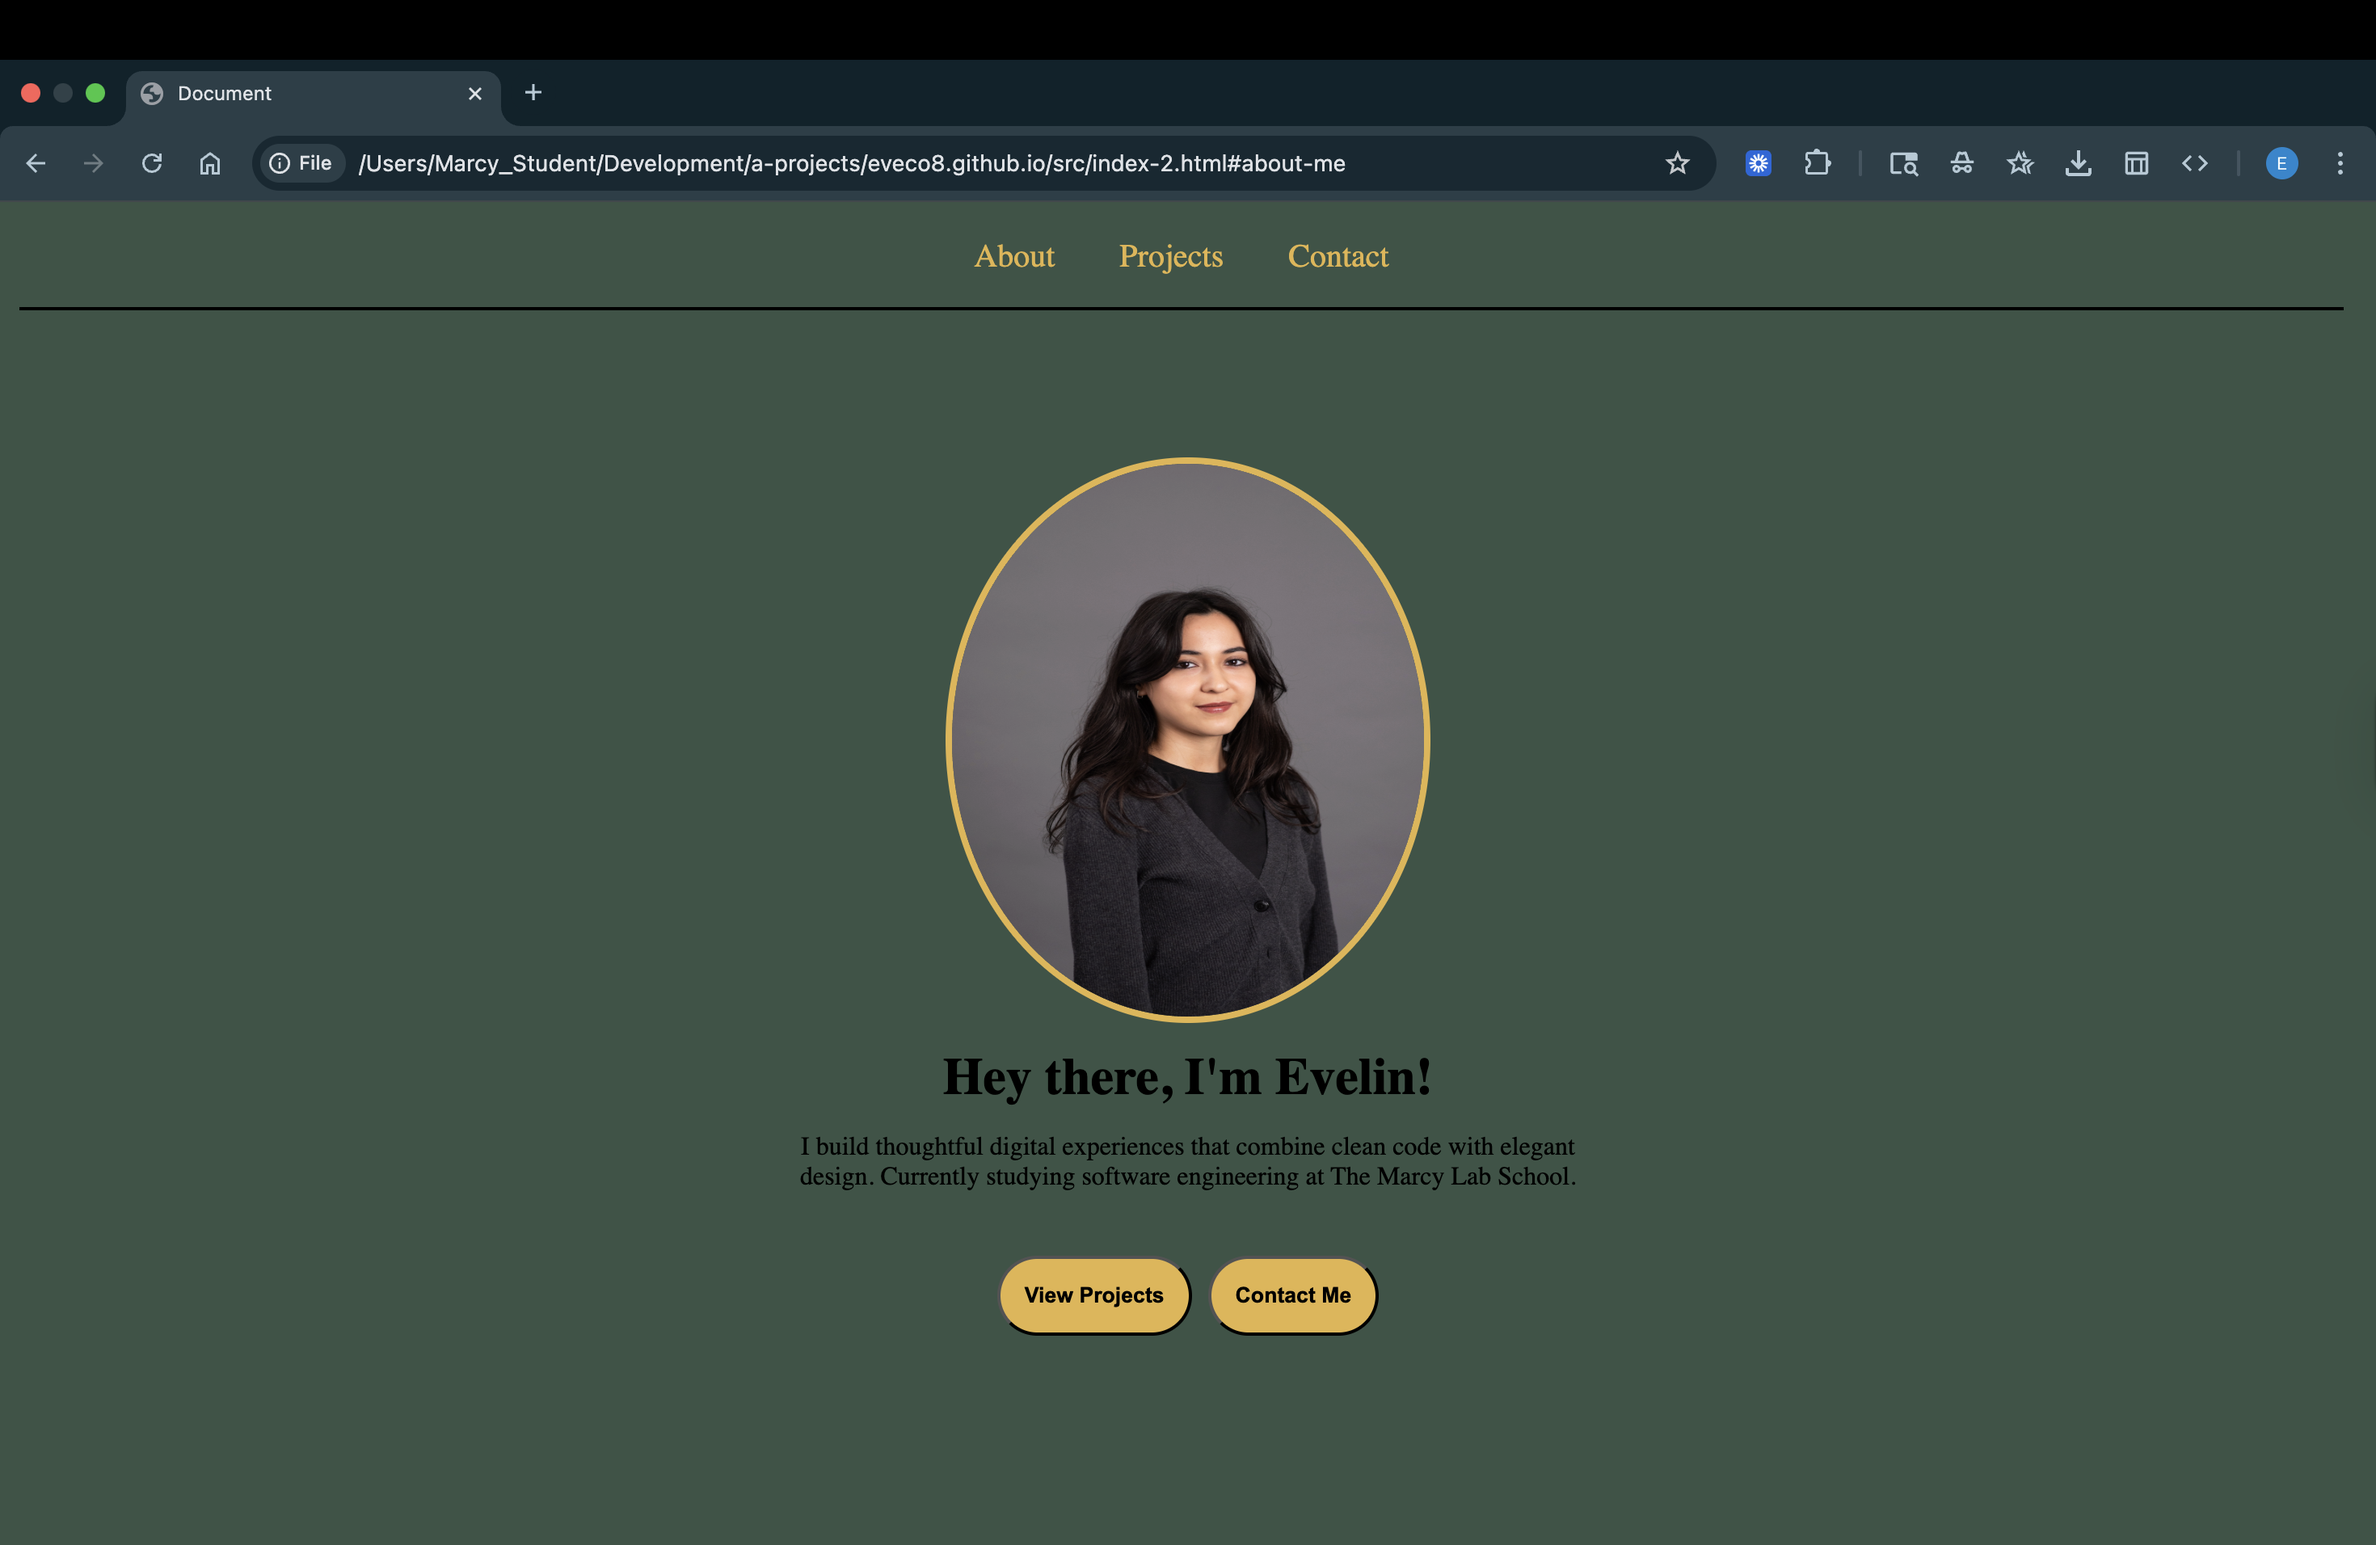
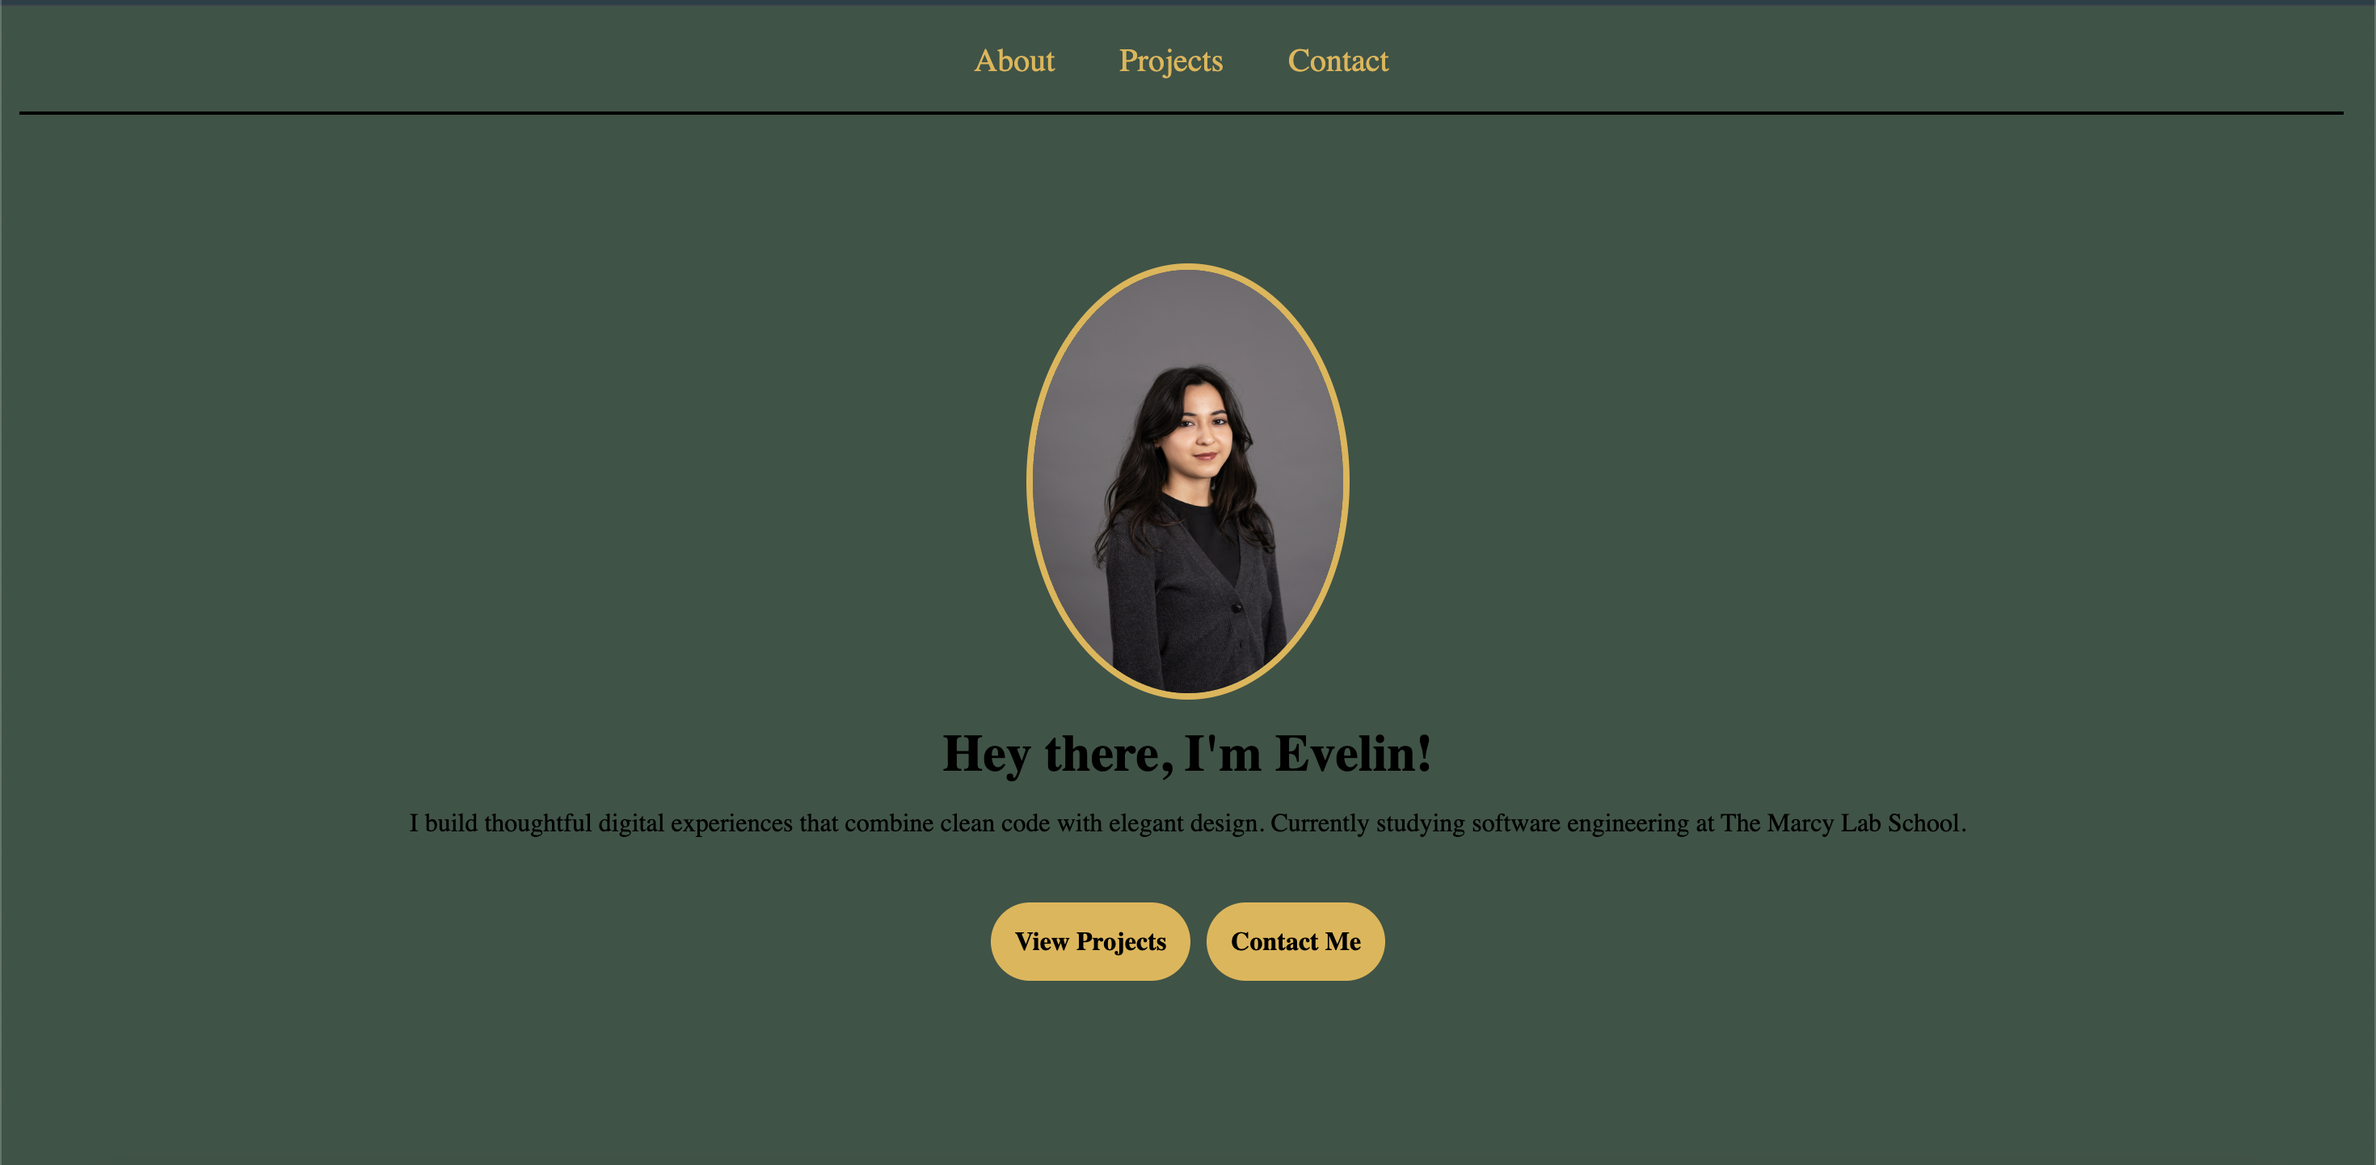
addded mewmix project

diff --git a/index.html b/index.html
@@ -52,7 +52,7 @@
             <div class="me-section">
                 <div class="about-me-paragraph">
                     <h2>About me</h2>
-                    <p>I'm a software engineering fellow passionate about creating websites that are both beautiful and functional. I believe good design should be invisible—it just works. Before tech, I studied English literature, which taught me the power of storytelling. Now I tell stories through code, crafting experiences that connect with users on a human level. Outside of coding, I enjoy reading science fiction, exploring coffee shops, and practicing photography. I'm a software engineering fellow passionate about creating websites that are both beautiful and functional. I believe good design should be invisible—it just works. Before tech, I studied English literature, which taught me the power of storytelling. Now I tell stories through code, crafting experiences that connect with users on a human level. Outside of coding, I enjoy reading science fiction, exploring coffee shops, and practicing photography.</p>
+                    <p>I'm a software engineering fellow passionate about creating websites that are both beautiful and functional. I believe good design should be invisible—it just works. Before tech, I studied English literature, which taught me the power of storytelling. Now I tell stories through code, crafting experiences that connect with users on a human level. Outside of coding, I enjoy reading science fiction, exploring coffee shops, and practicing photography. I'm a software engineering fellow passionate about creating websites that are both beautiful and functional. I believe good design should be invisible—it just works. Before tech, I studied English literature, which taught me the power of storytelling. Now I tell stories through code, crafting experiences that connect with users on a human level. Outside of coding, I enjoy reading science fiction, exploring coffee shops, and practicing photography. *change*</p>
                 </div>
                     
                     <div class="skills-container">
@@ -64,59 +64,69 @@
                             <span class="skill"><strong>Node.js</strong></span>
                         </div>
                     </div>
-            </div>
-        </section>
-
-        
-        <section id="projects" class="section-card">
-            <h2>My Projects</h2>
-
+                </div>
+            </section>
+            
+            
+            <section id="projects" class="section-card">
+                <h2>My Projects</h2>
+                
+                <div class="proj">
+                     <img class="proj-img" src="src/img/mewmix.png" alt="evelin's-mewmix-project">
+                     <div class="proj-container"> 
+                        <div>
+                            <p class="proj-description">
+                                Mewmix is an interactive web app where users collect and explore digital cat cards featuring funny images, GIFs, and fun facts, for entertaining learning.
+                            </p>
+                        </div>
+                        <div class="proj-skill-container">
+                            <span class="proj-skill"><strong>HTML</strong></span>
+                            <span class="proj-skill"><strong>CSS</strong></span>
+                            <span class="proj-skill"><strong>JavaScript</strong></span>
+                            <span class="proj-skill"><strong>Responsive</strong></span>
+                        </div>
+                        <div class="github-link">
+                            <a href="https://github.com/Joshua-Evelin-mls/mod-4-project"><strong>GitHub</strong></a>
+                            <a href="https://joshua-evelin-mls.github.io/mod-4-project/"><strong>Live Site</strong></a>
+                        </div>
+                    </div>
+                </div>
+                        
                 <div class="proj">
                     <img class="proj-img" src="src/img/cli.png" alt="cli-project">
-                    <div class="proj-skill-container">
-                        <span class="proj-skill"><strong>JavaScript</strong></span>
-                        <span class="proj-skill"><strong>Node.js</strong></span>
-                    </div>
-                    <div class="github-link">
-                        <a href="https://github.com/eveco8/rock-paper-scissors"><strong>GitHub</strong></a>
+                    <div class="proj-container">
+                        <div>
+                            <p class="proj-description">
+                                Think you can beat the computer? A fun CLI game of Rock Paper Scissors playable directly in the terminal.
+                            </p>
+                        </div>
+                        <div class="proj-skill-container">
+                            <span class="proj-skill"><strong>JavaScript</strong></span>
+                            <span class="proj-skill"><strong>Node.js</strong></span>
+                        </div>
+                        <div class="github-link">
+                            <a href="https://github.com/eveco8/rock-paper-scissors"><strong>GitHub</strong></a>
+                        </div>
                     </div>
                 </div>
 
                 <div class="proj">
                      <img class="proj-img" src="src/img/portfolio.png" alt="evelin's-portfolio-project">
-                     <div class="proj-skill-container">
-                        <span class="proj-skill"><strong>HTML</strong></span>
-                        <span class="proj-skill"><strong>CSS</strong></span>
-                        <span class="proj-skill"><strong>Responsive</strong></span>
-                     </div>
-                     <div class="github-link">
-                        <a href="https://github.com/eveco8/eveco8.github.io"><strong>GitHub</strong></a>
-                     </div>
-                </div>
-
-                <div class="proj">
-                    <img class="proj-img" src="src/img/recipe.png" alt="evelin's-recipe-card-project">
-                    <div class="proj-skill-container">
-                        <span class="proj-skill"><strong>HTML</strong></span>
-                        <span class="proj-skill"><strong>CSS</strong></span>
-                        <span class="proj-skill"><strong>Responsive</strong></span>
+                     <div class="proj-container">
+                        <div>
+                            <p class="proj-description">
+                                My personal portfolio showcasing my projects, skills, and journey as a software engineering fellow.
+                            </p>
+                        </div>
+                         <div class="proj-skill-container">
+                             <span class="proj-skill"><strong>HTML</strong></span>
+                             <span class="proj-skill"><strong>CSS</strong></span>
+                             <span class="proj-skill"><strong>Responsive</strong></span>
+                        </div>
+                        <div class="github-link">
+                                <a href="https://github.com/eveco8/eveco8.github.io"><strong>GitHub</strong></a>
+                        </div>
                     </div>
-                    <div class="github-link">
-                        <a href="https://github.com/The-Marcy-Lab-School-Assignments/swe-3-1-recipe-card-eveco8"><strong>GitHub</strong></a>    
-                    </div>
-                </div>
-
-                <div class="proj">
-                     <img class="proj-img" src="src/img/mewmix.png" alt="evelin's-mewmix-project">
-                     <div class="proj-skill-container">
-                        <span class="proj-skill"><strong>HTML</strong></span>
-                        <span class="proj-skill"><strong>CSS</strong></span>
-                        <span class="proj-skill"><strong>JavaScript</strong></span>
-                        <span class="proj-skill"><strong>Responsive</strong></span>
-                     </div>
-                     <div class="github-link">
-                        <a href="https://github.com/Joshua-Evelin-mls/mod-4-project"><strong>GitHub</strong></a>
-                     </div>
                 </div>
         </section>
 

diff --git a/src/style.css b/src/style.css
@@ -116,7 +116,7 @@ h2 {
   background-color: #e3b449;
   border-radius: 40px;
   padding: 15px;
-    display: inline-block;
+  display: inline-block;
   text-decoration: none;
   color: black;
   text-align: center;
@@ -186,6 +186,7 @@ h2 {
 }
 
 .proj {
+  display: flex;
   width: 80%;        
   padding: 20px;
   border-bottom: 2px solid black;
@@ -200,7 +201,7 @@ h2 {
 }
 
 .proj-img {
-  width: 100%;
+  width: 50%;
   border-radius: 10px;
   border: 2px solid black;
 }
@@ -209,11 +210,11 @@ h2 {
   display: flex;
   justify-content: center;
   gap: 10px;
-  padding-top: 10px;
+  padding-top: 20px;
 }
 
 .proj-skill {
-  font-size: 7px;
+  font-size: 11px;
   /* width: 50px; */
   text-align: center;
   padding: 4px;
@@ -227,6 +228,7 @@ h2 {
   display: flex;
   justify-content: center;
   margin-top: 15px;
+  gap: 20px;
 }
 
 .github-link a {
@@ -242,7 +244,13 @@ h2 {
   text-decoration: underline;
 }
 
-
+.proj-container {
+  display: flex;
+  flex-direction: column;
+  justify-content: center;
+  padding: 35px;
+  text-align: center;
+}
 
 
 
@@ -349,7 +357,6 @@ footer {
   .dropdown-button {
     display: none;
   }
-
 }
 
 @media(max-width: 767px) {
